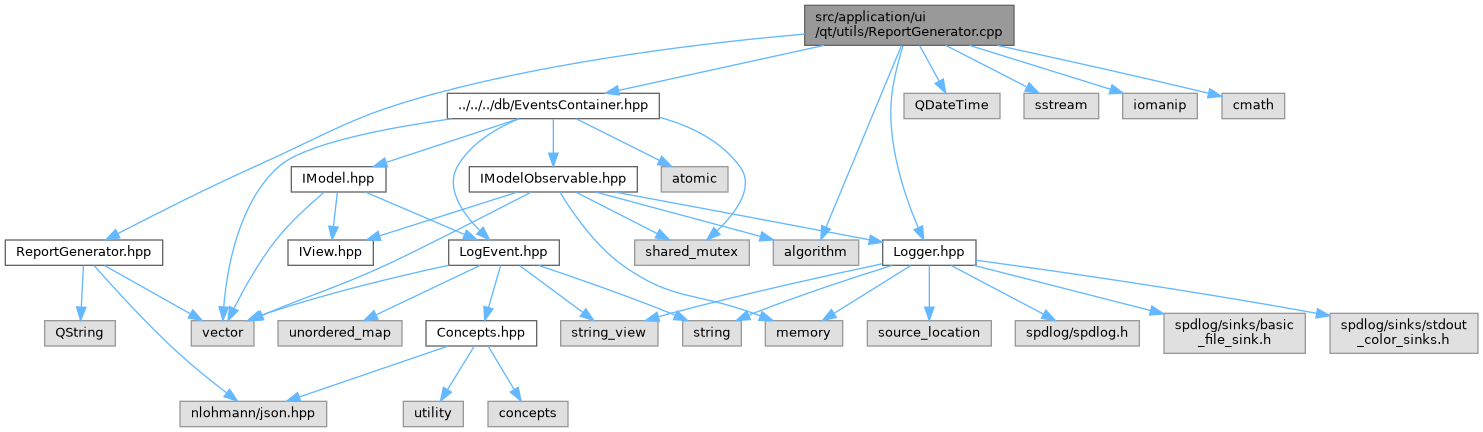
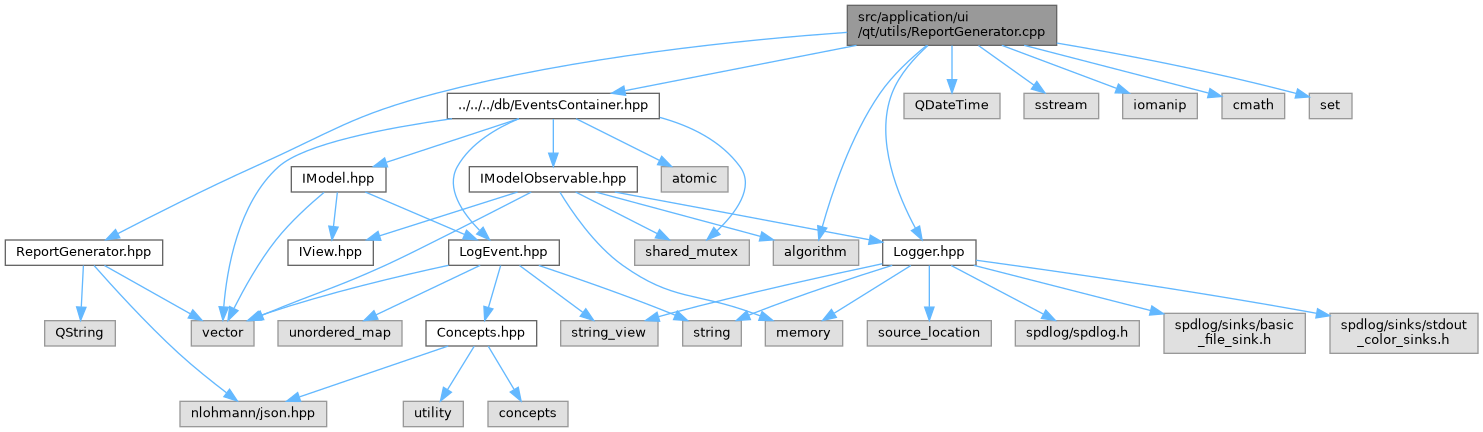
docs: update Doxygen for main 9cac99545302eed5df06e477e1df49b92910af70

diff --git a/d9/d8e/SearchEngine_8hpp_source.html b/d9/d8e/SearchEngine_8hpp_source.html
@@ -195,34 +195,34 @@ $(document).ready(function(){initNavTree('d9/d8e/SearchEngine_8hpp_source.html',
 <div class="ttc" id="aclassui_1_1qt_1_1utils_1_1SearchEngine_html"><div class="ttname"><a href="../../d6/da4/classui_1_1qt_1_1utils_1_1SearchEngine.html">ui::qt::utils::SearchEngine</a></div><div class="ttdoc">Advanced search engine supporting multiple search modes.</div><div class="ttdef"><b>Definition</b> SearchEngine.hpp:36</div></div>
 <div class="ttc" id="aclassui_1_1qt_1_1utils_1_1SearchEngine_html_a00ce6f7215e5659768e4cbb5f6100c2d"><div class="ttname"><a href="../../d6/da4/classui_1_1qt_1_1utils_1_1SearchEngine.html#a00ce6f7215e5659768e4cbb5f6100c2d">ui::qt::utils::SearchEngine::CompilePattern</a></div><div class="ttdeci">bool CompilePattern(const std::string &amp;pattern, std::string &amp;outError)</div><div class="ttdoc">Compile a search pattern (validates regex, parses advanced syntax)</div><div class="ttdef"><b>Definition</b> SearchEngine.cpp:17</div></div>
 <div class="ttc" id="aclassui_1_1qt_1_1utils_1_1SearchEngine_html_a0869fbab3a0b78e636c0de9ae2b8038a"><div class="ttname"><a href="../../d6/da4/classui_1_1qt_1_1utils_1_1SearchEngine.html#a0869fbab3a0b78e636c0de9ae2b8038a">ui::qt::utils::SearchEngine::SetCaseSensitive</a></div><div class="ttdeci">void SetCaseSensitive(bool sensitive)</div><div class="ttdoc">Set case sensitivity for substring/advanced modes.</div><div class="ttdef"><b>Definition</b> SearchEngine.hpp:45</div></div>
-<div class="ttc" id="aclassui_1_1qt_1_1utils_1_1SearchEngine_html_a0870ef0f32600b0c047cc75dfd22fc94"><div class="ttname"><a href="../../d6/da4/classui_1_1qt_1_1utils_1_1SearchEngine.html#a0870ef0f32600b0c047cc75dfd22fc94">ui::qt::utils::SearchEngine::Matches</a></div><div class="ttdeci">bool Matches(const std::string &amp;text) const</div><div class="ttdoc">Check if a string matches the current search pattern.</div><div class="ttdef"><b>Definition</b> SearchEngine.cpp:101</div></div>
-<div class="ttc" id="aclassui_1_1qt_1_1utils_1_1SearchEngine_html_a09b5ba499b6c1af2984b7825f60f1f48"><div class="ttname"><a href="../../d6/da4/classui_1_1qt_1_1utils_1_1SearchEngine.html#a09b5ba499b6c1af2984b7825f60f1f48">ui::qt::utils::SearchEngine::compileAdvanced</a></div><div class="ttdeci">bool compileAdvanced(const std::string &amp;pattern, std::string &amp;outError)</div><div class="ttdef"><b>Definition</b> SearchEngine.cpp:63</div></div>
-<div class="ttc" id="aclassui_1_1qt_1_1utils_1_1SearchEngine_html_a1066d6d1d810e00fd3b3cce923d3cf62"><div class="ttname"><a href="../../d6/da4/classui_1_1qt_1_1utils_1_1SearchEngine.html#a1066d6d1d810e00fd3b3cce923d3cf62">ui::qt::utils::SearchEngine::matchesRegex</a></div><div class="ttdeci">bool matchesRegex(const std::string &amp;text) const</div><div class="ttdef"><b>Definition</b> SearchEngine.cpp:156</div></div>
+<div class="ttc" id="aclassui_1_1qt_1_1utils_1_1SearchEngine_html_a0870ef0f32600b0c047cc75dfd22fc94"><div class="ttname"><a href="../../d6/da4/classui_1_1qt_1_1utils_1_1SearchEngine.html#a0870ef0f32600b0c047cc75dfd22fc94">ui::qt::utils::SearchEngine::Matches</a></div><div class="ttdeci">bool Matches(const std::string &amp;text) const</div><div class="ttdoc">Check if a string matches the current search pattern.</div><div class="ttdef"><b>Definition</b> SearchEngine.cpp:110</div></div>
+<div class="ttc" id="aclassui_1_1qt_1_1utils_1_1SearchEngine_html_a09b5ba499b6c1af2984b7825f60f1f48"><div class="ttname"><a href="../../d6/da4/classui_1_1qt_1_1utils_1_1SearchEngine.html#a09b5ba499b6c1af2984b7825f60f1f48">ui::qt::utils::SearchEngine::compileAdvanced</a></div><div class="ttdeci">bool compileAdvanced(const std::string &amp;pattern, std::string &amp;outError)</div><div class="ttdef"><b>Definition</b> SearchEngine.cpp:64</div></div>
+<div class="ttc" id="aclassui_1_1qt_1_1utils_1_1SearchEngine_html_a1066d6d1d810e00fd3b3cce923d3cf62"><div class="ttname"><a href="../../d6/da4/classui_1_1qt_1_1utils_1_1SearchEngine.html#a1066d6d1d810e00fd3b3cce923d3cf62">ui::qt::utils::SearchEngine::matchesRegex</a></div><div class="ttdeci">bool matchesRegex(const std::string &amp;text) const</div><div class="ttdef"><b>Definition</b> SearchEngine.cpp:165</div></div>
 <div class="ttc" id="aclassui_1_1qt_1_1utils_1_1SearchEngine_html_a14b34ead7e3f02a3e87db69861f451ea"><div class="ttname"><a href="../../d6/da4/classui_1_1qt_1_1utils_1_1SearchEngine.html#a14b34ead7e3f02a3e87db69861f451ea">ui::qt::utils::SearchEngine::m_pattern</a></div><div class="ttdeci">std::string m_pattern</div><div class="ttdef"><b>Definition</b> SearchEngine.hpp:94</div></div>
 <div class="ttc" id="aclassui_1_1qt_1_1utils_1_1SearchEngine_html_a157aefee98a697bb40137b06a67b274b"><div class="ttname"><a href="../../d6/da4/classui_1_1qt_1_1utils_1_1SearchEngine.html#a157aefee98a697bb40137b06a67b274b">ui::qt::utils::SearchEngine::m_compiledRegex</a></div><div class="ttdeci">std::optional&lt; std::regex &gt; m_compiledRegex</div><div class="ttdef"><b>Definition</b> SearchEngine.hpp:95</div></div>
 <div class="ttc" id="aclassui_1_1qt_1_1utils_1_1SearchEngine_html_a15d883daf62fb7ec866766b188287df9"><div class="ttname"><a href="../../d6/da4/classui_1_1qt_1_1utils_1_1SearchEngine.html#a15d883daf62fb7ec866766b188287df9">ui::qt::utils::SearchEngine::GetPattern</a></div><div class="ttdeci">const std::string &amp; GetPattern() const</div><div class="ttdoc">Get compiled pattern (for display/logging)</div><div class="ttdef"><b>Definition</b> SearchEngine.hpp:58</div></div>
 <div class="ttc" id="aclassui_1_1qt_1_1utils_1_1SearchEngine_html_a17b3fb58c58d2f37747f11d93ded34db"><div class="ttname"><a href="../../d6/da4/classui_1_1qt_1_1utils_1_1SearchEngine.html#a17b3fb58c58d2f37747f11d93ded34db">ui::qt::utils::SearchEngine::m_advancedQuery</a></div><div class="ttdeci">std::optional&lt; AdvancedQuery &gt; m_advancedQuery</div><div class="ttdef"><b>Definition</b> SearchEngine.hpp:96</div></div>
 <div class="ttc" id="aclassui_1_1qt_1_1utils_1_1SearchEngine_html_a1aa7a411f20acb1565b6ab46a9e68277"><div class="ttname"><a href="../../d6/da4/classui_1_1qt_1_1utils_1_1SearchEngine.html#a1aa7a411f20acb1565b6ab46a9e68277">ui::qt::utils::SearchEngine::kMaxHistorySize</a></div><div class="ttdeci">static constexpr size_t kMaxHistorySize</div><div class="ttdef"><b>Definition</b> SearchEngine.hpp:103</div></div>
 <div class="ttc" id="aclassui_1_1qt_1_1utils_1_1SearchEngine_html_a384fcf79fc4795a539371bcc85b45309"><div class="ttname"><a href="../../d6/da4/classui_1_1qt_1_1utils_1_1SearchEngine.html#a384fcf79fc4795a539371bcc85b45309">ui::qt::utils::SearchEngine::m_history</a></div><div class="ttdeci">std::vector&lt; std::string &gt; m_history</div><div class="ttdef"><b>Definition</b> SearchEngine.hpp:97</div></div>
-<div class="ttc" id="aclassui_1_1qt_1_1utils_1_1SearchEngine_html_a458f1a1b4a5b19335c2c9981ca7b774f"><div class="ttname"><a href="../../d6/da4/classui_1_1qt_1_1utils_1_1SearchEngine.html#a458f1a1b4a5b19335c2c9981ca7b774f">ui::qt::utils::SearchEngine::matchesSimple</a></div><div class="ttdeci">bool matchesSimple(const std::string &amp;text) const</div><div class="ttdef"><b>Definition</b> SearchEngine.cpp:121</div></div>
+<div class="ttc" id="aclassui_1_1qt_1_1utils_1_1SearchEngine_html_a458f1a1b4a5b19335c2c9981ca7b774f"><div class="ttname"><a href="../../d6/da4/classui_1_1qt_1_1utils_1_1SearchEngine.html#a458f1a1b4a5b19335c2c9981ca7b774f">ui::qt::utils::SearchEngine::matchesSimple</a></div><div class="ttdeci">bool matchesSimple(const std::string &amp;text) const</div><div class="ttdef"><b>Definition</b> SearchEngine.cpp:130</div></div>
 <div class="ttc" id="aclassui_1_1qt_1_1utils_1_1SearchEngine_html_a45b0fb6f489367fc7feff83eb57d272c"><div class="ttname"><a href="../../d6/da4/classui_1_1qt_1_1utils_1_1SearchEngine.html#a45b0fb6f489367fc7feff83eb57d272c">ui::qt::utils::SearchEngine::m_caseSensitive</a></div><div class="ttdeci">bool m_caseSensitive</div><div class="ttdef"><b>Definition</b> SearchEngine.hpp:93</div></div>
-<div class="ttc" id="aclassui_1_1qt_1_1utils_1_1SearchEngine_html_a508e71fb711d6105bc9f2440ff898dfd"><div class="ttname"><a href="../../d6/da4/classui_1_1qt_1_1utils_1_1SearchEngine.html#a508e71fb711d6105bc9f2440ff898dfd">ui::qt::utils::SearchEngine::findSimpleMatches</a></div><div class="ttdeci">std::vector&lt; SearchMatch &gt; findSimpleMatches(const std::string &amp;text) const</div><div class="ttdef"><b>Definition</b> SearchEngine.cpp:242</div></div>
-<div class="ttc" id="aclassui_1_1qt_1_1utils_1_1SearchEngine_html_a572c8bfcef6258dff6783a64f128f2a4"><div class="ttname"><a href="../../d6/da4/classui_1_1qt_1_1utils_1_1SearchEngine.html#a572c8bfcef6258dff6783a64f128f2a4">ui::qt::utils::SearchEngine::FindMatches</a></div><div class="ttdeci">std::vector&lt; SearchMatch &gt; FindMatches(const std::string &amp;text) const</div><div class="ttdoc">Find all matches in a string (for highlighting)</div><div class="ttdef"><b>Definition</b> SearchEngine.cpp:213</div></div>
-<div class="ttc" id="aclassui_1_1qt_1_1utils_1_1SearchEngine_html_a5b9bbdf14689cca274d67613e5707cfe"><div class="ttname"><a href="../../d6/da4/classui_1_1qt_1_1utils_1_1SearchEngine.html#a5b9bbdf14689cca274d67613e5707cfe">ui::qt::utils::SearchEngine::findRegexMatches</a></div><div class="ttdeci">std::vector&lt; SearchMatch &gt; findRegexMatches(const std::string &amp;text) const</div><div class="ttdef"><b>Definition</b> SearchEngine.cpp:286</div></div>
+<div class="ttc" id="aclassui_1_1qt_1_1utils_1_1SearchEngine_html_a508e71fb711d6105bc9f2440ff898dfd"><div class="ttname"><a href="../../d6/da4/classui_1_1qt_1_1utils_1_1SearchEngine.html#a508e71fb711d6105bc9f2440ff898dfd">ui::qt::utils::SearchEngine::findSimpleMatches</a></div><div class="ttdeci">std::vector&lt; SearchMatch &gt; findSimpleMatches(const std::string &amp;text) const</div><div class="ttdef"><b>Definition</b> SearchEngine.cpp:251</div></div>
+<div class="ttc" id="aclassui_1_1qt_1_1utils_1_1SearchEngine_html_a572c8bfcef6258dff6783a64f128f2a4"><div class="ttname"><a href="../../d6/da4/classui_1_1qt_1_1utils_1_1SearchEngine.html#a572c8bfcef6258dff6783a64f128f2a4">ui::qt::utils::SearchEngine::FindMatches</a></div><div class="ttdeci">std::vector&lt; SearchMatch &gt; FindMatches(const std::string &amp;text) const</div><div class="ttdoc">Find all matches in a string (for highlighting)</div><div class="ttdef"><b>Definition</b> SearchEngine.cpp:222</div></div>
+<div class="ttc" id="aclassui_1_1qt_1_1utils_1_1SearchEngine_html_a5b9bbdf14689cca274d67613e5707cfe"><div class="ttname"><a href="../../d6/da4/classui_1_1qt_1_1utils_1_1SearchEngine.html#a5b9bbdf14689cca274d67613e5707cfe">ui::qt::utils::SearchEngine::findRegexMatches</a></div><div class="ttdeci">std::vector&lt; SearchMatch &gt; findRegexMatches(const std::string &amp;text) const</div><div class="ttdef"><b>Definition</b> SearchEngine.cpp:295</div></div>
 <div class="ttc" id="aclassui_1_1qt_1_1utils_1_1SearchEngine_html_a656d11e9ec5aa28ce1419711fd1572d9"><div class="ttname"><a href="../../d6/da4/classui_1_1qt_1_1utils_1_1SearchEngine.html#a656d11e9ec5aa28ce1419711fd1572d9">ui::qt::utils::SearchEngine::SetMode</a></div><div class="ttdeci">void SetMode(SearchMode mode)</div><div class="ttdoc">Set search mode.</div><div class="ttdef"><b>Definition</b> SearchEngine.cpp:12</div></div>
 <div class="ttc" id="aclassui_1_1qt_1_1utils_1_1SearchEngine_html_a6d7bfb8c60db796f0869096ad95383b6"><div class="ttname"><a href="../../d6/da4/classui_1_1qt_1_1utils_1_1SearchEngine.html#a6d7bfb8c60db796f0869096ad95383b6">ui::qt::utils::SearchEngine::compileSimple</a></div><div class="ttdeci">bool compileSimple(const std::string &amp;pattern)</div><div class="ttdef"><b>Definition</b> SearchEngine.cpp:39</div></div>
 <div class="ttc" id="aclassui_1_1qt_1_1utils_1_1SearchEngine_html_a78a5fb2787fc7ae4ab7ca665d36fafba"><div class="ttname"><a href="../../d6/da4/classui_1_1qt_1_1utils_1_1SearchEngine.html#a78a5fb2787fc7ae4ab7ca665d36fafba">ui::qt::utils::SearchEngine::m_normalizedPattern</a></div><div class="ttdeci">std::string m_normalizedPattern</div><div class="ttdef"><b>Definition</b> SearchEngine.hpp:100</div></div>
-<div class="ttc" id="aclassui_1_1qt_1_1utils_1_1SearchEngine_html_a7b77834fdf3b01ff33a07243faedff96"><div class="ttname"><a href="../../d6/da4/classui_1_1qt_1_1utils_1_1SearchEngine.html#a7b77834fdf3b01ff33a07243faedff96">ui::qt::utils::SearchEngine::Clear</a></div><div class="ttdeci">void Clear()</div><div class="ttdoc">Clear current pattern.</div><div class="ttdef"><b>Definition</b> SearchEngine.cpp:311</div></div>
-<div class="ttc" id="aclassui_1_1qt_1_1utils_1_1SearchEngine_html_a8137417b74d0f5de61dd96c743ad722d"><div class="ttname"><a href="../../d6/da4/classui_1_1qt_1_1utils_1_1SearchEngine.html#a8137417b74d0f5de61dd96c743ad722d">ui::qt::utils::SearchEngine::AddToHistory</a></div><div class="ttdeci">void AddToHistory(const std::string &amp;term)</div><div class="ttdoc">Add to search history.</div><div class="ttdef"><b>Definition</b> SearchEngine.cpp:318</div></div>
-<div class="ttc" id="aclassui_1_1qt_1_1utils_1_1SearchEngine_html_aa015e67e960d9b4fbb7e47074626f6cd"><div class="ttname"><a href="../../d6/da4/classui_1_1qt_1_1utils_1_1SearchEngine.html#aa015e67e960d9b4fbb7e47074626f6cd">ui::qt::utils::SearchEngine::matchesAdvanced</a></div><div class="ttdeci">bool matchesAdvanced(const std::string &amp;text) const</div><div class="ttdef"><b>Definition</b> SearchEngine.cpp:169</div></div>
+<div class="ttc" id="aclassui_1_1qt_1_1utils_1_1SearchEngine_html_a7b77834fdf3b01ff33a07243faedff96"><div class="ttname"><a href="../../d6/da4/classui_1_1qt_1_1utils_1_1SearchEngine.html#a7b77834fdf3b01ff33a07243faedff96">ui::qt::utils::SearchEngine::Clear</a></div><div class="ttdeci">void Clear()</div><div class="ttdoc">Clear current pattern.</div><div class="ttdef"><b>Definition</b> SearchEngine.cpp:320</div></div>
+<div class="ttc" id="aclassui_1_1qt_1_1utils_1_1SearchEngine_html_a8137417b74d0f5de61dd96c743ad722d"><div class="ttname"><a href="../../d6/da4/classui_1_1qt_1_1utils_1_1SearchEngine.html#a8137417b74d0f5de61dd96c743ad722d">ui::qt::utils::SearchEngine::AddToHistory</a></div><div class="ttdeci">void AddToHistory(const std::string &amp;term)</div><div class="ttdoc">Add to search history.</div><div class="ttdef"><b>Definition</b> SearchEngine.cpp:327</div></div>
+<div class="ttc" id="aclassui_1_1qt_1_1utils_1_1SearchEngine_html_aa015e67e960d9b4fbb7e47074626f6cd"><div class="ttname"><a href="../../d6/da4/classui_1_1qt_1_1utils_1_1SearchEngine.html#aa015e67e960d9b4fbb7e47074626f6cd">ui::qt::utils::SearchEngine::matchesAdvanced</a></div><div class="ttdeci">bool matchesAdvanced(const std::string &amp;text) const</div><div class="ttdef"><b>Definition</b> SearchEngine.cpp:178</div></div>
 <div class="ttc" id="aclassui_1_1qt_1_1utils_1_1SearchEngine_html_aa8cef7de68a51551c2f566689951b5a8"><div class="ttname"><a href="../../d6/da4/classui_1_1qt_1_1utils_1_1SearchEngine.html#aa8cef7de68a51551c2f566689951b5a8">ui::qt::utils::SearchEngine::GetMode</a></div><div class="ttdeci">SearchMode GetMode() const</div><div class="ttdef"><b>Definition</b> SearchEngine.hpp:42</div></div>
 <div class="ttc" id="aclassui_1_1qt_1_1utils_1_1SearchEngine_html_aae30527f69978d84c8fae44d12674ffa"><div class="ttname"><a href="../../d6/da4/classui_1_1qt_1_1utils_1_1SearchEngine.html#aae30527f69978d84c8fae44d12674ffa">ui::qt::utils::SearchEngine::IsCaseSensitive</a></div><div class="ttdeci">bool IsCaseSensitive() const</div><div class="ttdef"><b>Definition</b> SearchEngine.hpp:46</div></div>
-<div class="ttc" id="aclassui_1_1qt_1_1utils_1_1SearchEngine_html_ab4b3455306456e9b1e5b7622fe255d12"><div class="ttname"><a href="../../d6/da4/classui_1_1qt_1_1utils_1_1SearchEngine.html#ab4b3455306456e9b1e5b7622fe255d12">ui::qt::utils::SearchEngine::GetSuggestions</a></div><div class="ttdeci">std::vector&lt; std::string &gt; GetSuggestions(const std::string &amp;prefix) const</div><div class="ttdoc">Get suggestions based on current input (for autocomplete)</div><div class="ttdef"><b>Definition</b> SearchEngine.cpp:338</div></div>
+<div class="ttc" id="aclassui_1_1qt_1_1utils_1_1SearchEngine_html_ab4b3455306456e9b1e5b7622fe255d12"><div class="ttname"><a href="../../d6/da4/classui_1_1qt_1_1utils_1_1SearchEngine.html#ab4b3455306456e9b1e5b7622fe255d12">ui::qt::utils::SearchEngine::GetSuggestions</a></div><div class="ttdeci">std::vector&lt; std::string &gt; GetSuggestions(const std::string &amp;prefix) const</div><div class="ttdoc">Get suggestions based on current input (for autocomplete)</div><div class="ttdef"><b>Definition</b> SearchEngine.cpp:347</div></div>
 <div class="ttc" id="aclassui_1_1qt_1_1utils_1_1SearchEngine_html_ab68a085c7cf2e4cf9437adc3e3941df6"><div class="ttname"><a href="../../d6/da4/classui_1_1qt_1_1utils_1_1SearchEngine.html#ab68a085c7cf2e4cf9437adc3e3941df6">ui::qt::utils::SearchEngine::GetHistory</a></div><div class="ttdeci">const std::vector&lt; std::string &gt; &amp; GetHistory() const</div><div class="ttdoc">Get search history (most recent first)</div><div class="ttdef"><b>Definition</b> SearchEngine.hpp:67</div></div>
 <div class="ttc" id="aclassui_1_1qt_1_1utils_1_1SearchEngine_html_ac0f02f9058b69388aadf563a23d4507f"><div class="ttname"><a href="../../d6/da4/classui_1_1qt_1_1utils_1_1SearchEngine.html#ac0f02f9058b69388aadf563a23d4507f">ui::qt::utils::SearchEngine::SearchEngine</a></div><div class="ttdeci">SearchEngine()</div></div>
 <div class="ttc" id="aclassui_1_1qt_1_1utils_1_1SearchEngine_html_ad83abc97a5a59a3f9e5f10fcb5fed9d2"><div class="ttname"><a href="../../d6/da4/classui_1_1qt_1_1utils_1_1SearchEngine.html#ad83abc97a5a59a3f9e5f10fcb5fed9d2">ui::qt::utils::SearchEngine::m_normalizedPatternValid</a></div><div class="ttdeci">bool m_normalizedPatternValid</div><div class="ttdef"><b>Definition</b> SearchEngine.hpp:101</div></div>
 <div class="ttc" id="aclassui_1_1qt_1_1utils_1_1SearchEngine_html_af37d35dd047b95e5890338702a546274"><div class="ttname"><a href="../../d6/da4/classui_1_1qt_1_1utils_1_1SearchEngine.html#af37d35dd047b95e5890338702a546274">ui::qt::utils::SearchEngine::m_mode</a></div><div class="ttdeci">SearchMode m_mode</div><div class="ttdef"><b>Definition</b> SearchEngine.hpp:92</div></div>
-<div class="ttc" id="aclassui_1_1qt_1_1utils_1_1SearchEngine_html_af8560adfcb56430793e19f00d7cb393b"><div class="ttname"><a href="../../d6/da4/classui_1_1qt_1_1utils_1_1SearchEngine.html#af8560adfcb56430793e19f00d7cb393b">ui::qt::utils::SearchEngine::compileRegex</a></div><div class="ttdeci">bool compileRegex(const std::string &amp;pattern, std::string &amp;outError)</div><div class="ttdef"><b>Definition</b> SearchEngine.cpp:46</div></div>
+<div class="ttc" id="aclassui_1_1qt_1_1utils_1_1SearchEngine_html_af8560adfcb56430793e19f00d7cb393b"><div class="ttname"><a href="../../d6/da4/classui_1_1qt_1_1utils_1_1SearchEngine.html#af8560adfcb56430793e19f00d7cb393b">ui::qt::utils::SearchEngine::compileRegex</a></div><div class="ttdeci">bool compileRegex(const std::string &amp;pattern, std::string &amp;outError)</div><div class="ttdef"><b>Definition</b> SearchEngine.cpp:47</div></div>
 <div class="ttc" id="aclassui_1_1qt_1_1utils_1_1SearchEngine_html_affd58dbafcc0a3a8f8ad388957bb979b"><div class="ttname"><a href="../../d6/da4/classui_1_1qt_1_1utils_1_1SearchEngine.html#affd58dbafcc0a3a8f8ad388957bb979b">ui::qt::utils::SearchEngine::ClearHistory</a></div><div class="ttdeci">void ClearHistory()</div><div class="ttdoc">Clear history.</div><div class="ttdef"><b>Definition</b> SearchEngine.hpp:70</div></div>
 <div class="ttc" id="anamespaceui_1_1qt_1_1utils_html"><div class="ttname"><a href="../../dd/d73/namespaceui_1_1qt_1_1utils.html">ui::qt::utils</a></div><div class="ttdef"><b>Definition</b> EventGroupManager.cpp:12</div></div>
 <div class="ttc" id="anamespaceui_1_1qt_1_1utils_html_ae384296ecf488dc3d5f196f33ce8875c"><div class="ttname"><a href="../../dd/d73/namespaceui_1_1qt_1_1utils.html#ae384296ecf488dc3d5f196f33ce8875c">ui::qt::utils::SearchMode</a></div><div class="ttdeci">SearchMode</div><div class="ttdef"><b>Definition</b> SearchEngine.hpp:19</div></div>

diff --git a/db/d36/ReportGenerator_8hpp_source.html b/db/d36/ReportGenerator_8hpp_source.html
@@ -183,25 +183,25 @@ $(document).ready(function(){initNavTree('db/d36/ReportGenerator_8hpp_source.htm
 <div class="line"><a id="l00091" name="l00091"></a><span class="lineno">   91</span>} <span class="comment">// namespace ui::qt::utils</span></div>
 <div class="ttc" id="aclassdb_1_1EventsContainer_html"><div class="ttname"><a href="../../dd/dc2/classdb_1_1EventsContainer.html">db::EventsContainer</a></div><div class="ttdoc">High-performance, thread-safe container for managing large collections of LogEvent objects.</div><div class="ttdef"><b>Definition</b> EventsContainer.hpp:125</div></div>
 <div class="ttc" id="aclassui_1_1qt_1_1utils_1_1ReportGenerator_html"><div class="ttname"><a href="../../d3/dbb/classui_1_1qt_1_1utils_1_1ReportGenerator.html">ui::qt::utils::ReportGenerator</a></div><div class="ttdoc">Report generation system for v1.10.0 Phase 11.</div><div class="ttdef"><b>Definition</b> ReportGenerator.hpp:28</div></div>
-<div class="ttc" id="aclassui_1_1qt_1_1utils_1_1ReportGenerator_html_a01e6c17852b31a3806bd2dfb139919da"><div class="ttname"><a href="../../d3/dbb/classui_1_1qt_1_1utils_1_1ReportGenerator.html#a01e6c17852b31a3806bd2dfb139919da">ui::qt::utils::ReportGenerator::generateReport</a></div><div class="ttdeci">QString generateReport(const std::vector&lt; int &gt; &amp;eventIndices, const ReportOptions &amp;options)</div><div class="ttdoc">Generate a report from events in the container.</div><div class="ttdef"><b>Definition</b> ReportGenerator.cpp:19</div></div>
-<div class="ttc" id="aclassui_1_1qt_1_1utils_1_1ReportGenerator_html_a14990fa7535f037eaa75187a3fa1622f"><div class="ttname"><a href="../../d3/dbb/classui_1_1qt_1_1utils_1_1ReportGenerator.html#a14990fa7535f037eaa75187a3fa1622f">ui::qt::utils::ReportGenerator::GenerateMarkdown</a></div><div class="ttdeci">QString GenerateMarkdown(const std::vector&lt; const db::LogEvent * &gt; &amp;events, const ReportOptions &amp;options)</div><div class="ttdef"><b>Definition</b> ReportGenerator.cpp:159</div></div>
+<div class="ttc" id="aclassui_1_1qt_1_1utils_1_1ReportGenerator_html_a01e6c17852b31a3806bd2dfb139919da"><div class="ttname"><a href="../../d3/dbb/classui_1_1qt_1_1utils_1_1ReportGenerator.html#a01e6c17852b31a3806bd2dfb139919da">ui::qt::utils::ReportGenerator::generateReport</a></div><div class="ttdeci">QString generateReport(const std::vector&lt; int &gt; &amp;eventIndices, const ReportOptions &amp;options)</div><div class="ttdoc">Generate a report from events in the container.</div><div class="ttdef"><b>Definition</b> ReportGenerator.cpp:20</div></div>
+<div class="ttc" id="aclassui_1_1qt_1_1utils_1_1ReportGenerator_html_a14990fa7535f037eaa75187a3fa1622f"><div class="ttname"><a href="../../d3/dbb/classui_1_1qt_1_1utils_1_1ReportGenerator.html#a14990fa7535f037eaa75187a3fa1622f">ui::qt::utils::ReportGenerator::GenerateMarkdown</a></div><div class="ttdeci">QString GenerateMarkdown(const std::vector&lt; const db::LogEvent * &gt; &amp;events, const ReportOptions &amp;options)</div><div class="ttdef"><b>Definition</b> ReportGenerator.cpp:160</div></div>
 <div class="ttc" id="aclassui_1_1qt_1_1utils_1_1ReportGenerator_html_a20cf7d27a83e2c2e43b2e1d10d30a68a"><div class="ttname"><a href="../../d3/dbb/classui_1_1qt_1_1utils_1_1ReportGenerator.html#a20cf7d27a83e2c2e43b2e1d10d30a68a">ui::qt::utils::ReportGenerator::m_events</a></div><div class="ttdeci">db::EventsContainer &amp; m_events</div><div class="ttdef"><b>Definition</b> ReportGenerator.hpp:88</div></div>
-<div class="ttc" id="aclassui_1_1qt_1_1utils_1_1ReportGenerator_html_a2a2d6eef75f4fc80bacd74f575f978bd"><div class="ttname"><a href="../../d3/dbb/classui_1_1qt_1_1utils_1_1ReportGenerator.html#a2a2d6eef75f4fc80bacd74f575f978bd">ui::qt::utils::ReportGenerator::GenerateJSON</a></div><div class="ttdeci">QString GenerateJSON(const std::vector&lt; const db::LogEvent * &gt; &amp;events, const ReportOptions &amp;options)</div><div class="ttdef"><b>Definition</b> ReportGenerator.cpp:214</div></div>
-<div class="ttc" id="aclassui_1_1qt_1_1utils_1_1ReportGenerator_html_a4d2e13e509089aae2e05729d1c17b57e"><div class="ttname"><a href="../../d3/dbb/classui_1_1qt_1_1utils_1_1ReportGenerator.html#a4d2e13e509089aae2e05729d1c17b57e">ui::qt::utils::ReportGenerator::GenerateStatisticsTable</a></div><div class="ttdeci">QString GenerateStatisticsTable(const ReportStatistics &amp;stats)</div><div class="ttdef"><b>Definition</b> ReportGenerator.cpp:335</div></div>
-<div class="ttc" id="aclassui_1_1qt_1_1utils_1_1ReportGenerator_html_a682712a63e6919ffa1e5fd061d59b5f6"><div class="ttname"><a href="../../d3/dbb/classui_1_1qt_1_1utils_1_1ReportGenerator.html#a682712a63e6919ffa1e5fd061d59b5f6">ui::qt::utils::ReportGenerator::GenerateHTML</a></div><div class="ttdeci">QString GenerateHTML(const std::vector&lt; const db::LogEvent * &gt; &amp;events, const ReportOptions &amp;options)</div><div class="ttdef"><b>Definition</b> ReportGenerator.cpp:69</div></div>
-<div class="ttc" id="aclassui_1_1qt_1_1utils_1_1ReportGenerator_html_a963e71b3e67e203af66536c18dc68491"><div class="ttname"><a href="../../d3/dbb/classui_1_1qt_1_1utils_1_1ReportGenerator.html#a963e71b3e67e203af66536c18dc68491">ui::qt::utils::ReportGenerator::GenerateTimeline</a></div><div class="ttdeci">QString GenerateTimeline(const std::vector&lt; const db::LogEvent * &gt; &amp;events)</div><div class="ttdef"><b>Definition</b> ReportGenerator.cpp:348</div></div>
+<div class="ttc" id="aclassui_1_1qt_1_1utils_1_1ReportGenerator_html_a2a2d6eef75f4fc80bacd74f575f978bd"><div class="ttname"><a href="../../d3/dbb/classui_1_1qt_1_1utils_1_1ReportGenerator.html#a2a2d6eef75f4fc80bacd74f575f978bd">ui::qt::utils::ReportGenerator::GenerateJSON</a></div><div class="ttdeci">QString GenerateJSON(const std::vector&lt; const db::LogEvent * &gt; &amp;events, const ReportOptions &amp;options)</div><div class="ttdef"><b>Definition</b> ReportGenerator.cpp:215</div></div>
+<div class="ttc" id="aclassui_1_1qt_1_1utils_1_1ReportGenerator_html_a4d2e13e509089aae2e05729d1c17b57e"><div class="ttname"><a href="../../d3/dbb/classui_1_1qt_1_1utils_1_1ReportGenerator.html#a4d2e13e509089aae2e05729d1c17b57e">ui::qt::utils::ReportGenerator::GenerateStatisticsTable</a></div><div class="ttdeci">QString GenerateStatisticsTable(const ReportStatistics &amp;stats)</div><div class="ttdef"><b>Definition</b> ReportGenerator.cpp:336</div></div>
+<div class="ttc" id="aclassui_1_1qt_1_1utils_1_1ReportGenerator_html_a682712a63e6919ffa1e5fd061d59b5f6"><div class="ttname"><a href="../../d3/dbb/classui_1_1qt_1_1utils_1_1ReportGenerator.html#a682712a63e6919ffa1e5fd061d59b5f6">ui::qt::utils::ReportGenerator::GenerateHTML</a></div><div class="ttdeci">QString GenerateHTML(const std::vector&lt; const db::LogEvent * &gt; &amp;events, const ReportOptions &amp;options)</div><div class="ttdef"><b>Definition</b> ReportGenerator.cpp:70</div></div>
+<div class="ttc" id="aclassui_1_1qt_1_1utils_1_1ReportGenerator_html_a963e71b3e67e203af66536c18dc68491"><div class="ttname"><a href="../../d3/dbb/classui_1_1qt_1_1utils_1_1ReportGenerator.html#a963e71b3e67e203af66536c18dc68491">ui::qt::utils::ReportGenerator::GenerateTimeline</a></div><div class="ttdeci">QString GenerateTimeline(const std::vector&lt; const db::LogEvent * &gt; &amp;events)</div><div class="ttdef"><b>Definition</b> ReportGenerator.cpp:349</div></div>
 <div class="ttc" id="aclassui_1_1qt_1_1utils_1_1ReportGenerator_html_aafd28a6c28d6aab2a774fd66bb02f2f4"><div class="ttname"><a href="../../d3/dbb/classui_1_1qt_1_1utils_1_1ReportGenerator.html#aafd28a6c28d6aab2a774fd66bb02f2f4">ui::qt::utils::ReportGenerator::ReportFormat</a></div><div class="ttdeci">ReportFormat</div><div class="ttdef"><b>Definition</b> ReportGenerator.hpp:31</div></div>
 <div class="ttc" id="aclassui_1_1qt_1_1utils_1_1ReportGenerator_html_aafd28a6c28d6aab2a774fd66bb02f2f4a0ecd11c1d7a287401d148a23bbd7a2f8"><div class="ttname"><a href="../../d3/dbb/classui_1_1qt_1_1utils_1_1ReportGenerator.html#aafd28a6c28d6aab2a774fd66bb02f2f4a0ecd11c1d7a287401d148a23bbd7a2f8">ui::qt::utils::ReportGenerator::ReportFormat::JSON</a></div><div class="ttdeci">@ JSON</div></div>
 <div class="ttc" id="aclassui_1_1qt_1_1utils_1_1ReportGenerator_html_aafd28a6c28d6aab2a774fd66bb02f2f4a2182a74bab7188d959e795d9301e87ff"><div class="ttname"><a href="../../d3/dbb/classui_1_1qt_1_1utils_1_1ReportGenerator.html#aafd28a6c28d6aab2a774fd66bb02f2f4a2182a74bab7188d959e795d9301e87ff">ui::qt::utils::ReportGenerator::ReportFormat::Markdown</a></div><div class="ttdeci">@ Markdown</div></div>
 <div class="ttc" id="aclassui_1_1qt_1_1utils_1_1ReportGenerator_html_aafd28a6c28d6aab2a774fd66bb02f2f4a4c4ad5fca2e7a3f74dbb1ced00381aa4"><div class="ttname"><a href="../../d3/dbb/classui_1_1qt_1_1utils_1_1ReportGenerator.html#aafd28a6c28d6aab2a774fd66bb02f2f4a4c4ad5fca2e7a3f74dbb1ced00381aa4">ui::qt::utils::ReportGenerator::ReportFormat::HTML</a></div><div class="ttdeci">@ HTML</div></div>
 <div class="ttc" id="aclassui_1_1qt_1_1utils_1_1ReportGenerator_html_aafd28a6c28d6aab2a774fd66bb02f2f4ab7ebbf7f254ef646928dd58f62383a85"><div class="ttname"><a href="../../d3/dbb/classui_1_1qt_1_1utils_1_1ReportGenerator.html#aafd28a6c28d6aab2a774fd66bb02f2f4ab7ebbf7f254ef646928dd58f62383a85">ui::qt::utils::ReportGenerator::ReportFormat::PlainText</a></div><div class="ttdeci">@ PlainText</div></div>
 <div class="ttc" id="aclassui_1_1qt_1_1utils_1_1ReportGenerator_html_aafd28a6c28d6aab2a774fd66bb02f2f4abcd1b68617759b1dfcff0403a6b5a8d1"><div class="ttname"><a href="../../d3/dbb/classui_1_1qt_1_1utils_1_1ReportGenerator.html#aafd28a6c28d6aab2a774fd66bb02f2f4abcd1b68617759b1dfcff0403a6b5a8d1">ui::qt::utils::ReportGenerator::ReportFormat::PDF</a></div><div class="ttdeci">@ PDF</div></div>
-<div class="ttc" id="aclassui_1_1qt_1_1utils_1_1ReportGenerator_html_ac2772d9743246fbf067599524710b752"><div class="ttname"><a href="../../d3/dbb/classui_1_1qt_1_1utils_1_1ReportGenerator.html#ac2772d9743246fbf067599524710b752">ui::qt::utils::ReportGenerator::GenerateTrendAnalysis</a></div><div class="ttdeci">QString GenerateTrendAnalysis(const std::vector&lt; const db::LogEvent * &gt; &amp;events)</div><div class="ttdef"><b>Definition</b> ReportGenerator.cpp:354</div></div>
-<div class="ttc" id="aclassui_1_1qt_1_1utils_1_1ReportGenerator_html_ada82d479bb313bbce4bbe902532ba527"><div class="ttname"><a href="../../d3/dbb/classui_1_1qt_1_1utils_1_1ReportGenerator.html#ada82d479bb313bbce4bbe902532ba527">ui::qt::utils::ReportGenerator::generateReportFiltered</a></div><div class="ttdeci">QString generateReportFiltered(const QString &amp;filterCriteria, const ReportOptions &amp;options)</div><div class="ttdoc">Generate from filtered events (by level, pattern, etc.)</div><div class="ttdef"><b>Definition</b> ReportGenerator.cpp:59</div></div>
-<div class="ttc" id="aclassui_1_1qt_1_1utils_1_1ReportGenerator_html_adaaf8d0e30fc8e5afae99197f92b4d4f"><div class="ttname"><a href="../../d3/dbb/classui_1_1qt_1_1utils_1_1ReportGenerator.html#adaaf8d0e30fc8e5afae99197f92b4d4f">ui::qt::utils::ReportGenerator::CalculateStatistics</a></div><div class="ttdeci">ReportStatistics CalculateStatistics(const std::vector&lt; const db::LogEvent * &gt; &amp;events)</div><div class="ttdef"><b>Definition</b> ReportGenerator.cpp:265</div></div>
-<div class="ttc" id="aclassui_1_1qt_1_1utils_1_1ReportGenerator_html_adcf02ae0f0b096b80b28aca0a89a5ee8"><div class="ttname"><a href="../../d3/dbb/classui_1_1qt_1_1utils_1_1ReportGenerator.html#adcf02ae0f0b096b80b28aca0a89a5ee8">ui::qt::utils::ReportGenerator::GeneratePlainText</a></div><div class="ttdeci">QString GeneratePlainText(const std::vector&lt; const db::LogEvent * &gt; &amp;events, const ReportOptions &amp;options)</div><div class="ttdef"><b>Definition</b> ReportGenerator.cpp:247</div></div>
-<div class="ttc" id="aclassui_1_1qt_1_1utils_1_1ReportGenerator_html_ae9858115628c6c8c43046cf4447b1433"><div class="ttname"><a href="../../d3/dbb/classui_1_1qt_1_1utils_1_1ReportGenerator.html#ae9858115628c6c8c43046cf4447b1433">ui::qt::utils::ReportGenerator::GenerateSummary</a></div><div class="ttdeci">QString GenerateSummary(const ReportStatistics &amp;stats)</div><div class="ttdef"><b>Definition</b> ReportGenerator.cpp:320</div></div>
-<div class="ttc" id="aclassui_1_1qt_1_1utils_1_1ReportGenerator_html_aee8e310f64d8df5e178b3cc6a91f0982"><div class="ttname"><a href="../../d3/dbb/classui_1_1qt_1_1utils_1_1ReportGenerator.html#aee8e310f64d8df5e178b3cc6a91f0982">ui::qt::utils::ReportGenerator::generateReportByTimeRange</a></div><div class="ttdeci">QString generateReportByTimeRange(int64_t startTime, int64_t endTime, const ReportOptions &amp;options)</div><div class="ttdoc">Generate from time range.</div><div class="ttdef"><b>Definition</b> ReportGenerator.cpp:48</div></div>
+<div class="ttc" id="aclassui_1_1qt_1_1utils_1_1ReportGenerator_html_ac2772d9743246fbf067599524710b752"><div class="ttname"><a href="../../d3/dbb/classui_1_1qt_1_1utils_1_1ReportGenerator.html#ac2772d9743246fbf067599524710b752">ui::qt::utils::ReportGenerator::GenerateTrendAnalysis</a></div><div class="ttdeci">QString GenerateTrendAnalysis(const std::vector&lt; const db::LogEvent * &gt; &amp;events)</div><div class="ttdef"><b>Definition</b> ReportGenerator.cpp:355</div></div>
+<div class="ttc" id="aclassui_1_1qt_1_1utils_1_1ReportGenerator_html_ada82d479bb313bbce4bbe902532ba527"><div class="ttname"><a href="../../d3/dbb/classui_1_1qt_1_1utils_1_1ReportGenerator.html#ada82d479bb313bbce4bbe902532ba527">ui::qt::utils::ReportGenerator::generateReportFiltered</a></div><div class="ttdeci">QString generateReportFiltered(const QString &amp;filterCriteria, const ReportOptions &amp;options)</div><div class="ttdoc">Generate from filtered events (by level, pattern, etc.)</div><div class="ttdef"><b>Definition</b> ReportGenerator.cpp:60</div></div>
+<div class="ttc" id="aclassui_1_1qt_1_1utils_1_1ReportGenerator_html_adaaf8d0e30fc8e5afae99197f92b4d4f"><div class="ttname"><a href="../../d3/dbb/classui_1_1qt_1_1utils_1_1ReportGenerator.html#adaaf8d0e30fc8e5afae99197f92b4d4f">ui::qt::utils::ReportGenerator::CalculateStatistics</a></div><div class="ttdeci">ReportStatistics CalculateStatistics(const std::vector&lt; const db::LogEvent * &gt; &amp;events)</div><div class="ttdef"><b>Definition</b> ReportGenerator.cpp:266</div></div>
+<div class="ttc" id="aclassui_1_1qt_1_1utils_1_1ReportGenerator_html_adcf02ae0f0b096b80b28aca0a89a5ee8"><div class="ttname"><a href="../../d3/dbb/classui_1_1qt_1_1utils_1_1ReportGenerator.html#adcf02ae0f0b096b80b28aca0a89a5ee8">ui::qt::utils::ReportGenerator::GeneratePlainText</a></div><div class="ttdeci">QString GeneratePlainText(const std::vector&lt; const db::LogEvent * &gt; &amp;events, const ReportOptions &amp;options)</div><div class="ttdef"><b>Definition</b> ReportGenerator.cpp:248</div></div>
+<div class="ttc" id="aclassui_1_1qt_1_1utils_1_1ReportGenerator_html_ae9858115628c6c8c43046cf4447b1433"><div class="ttname"><a href="../../d3/dbb/classui_1_1qt_1_1utils_1_1ReportGenerator.html#ae9858115628c6c8c43046cf4447b1433">ui::qt::utils::ReportGenerator::GenerateSummary</a></div><div class="ttdeci">QString GenerateSummary(const ReportStatistics &amp;stats)</div><div class="ttdef"><b>Definition</b> ReportGenerator.cpp:321</div></div>
+<div class="ttc" id="aclassui_1_1qt_1_1utils_1_1ReportGenerator_html_aee8e310f64d8df5e178b3cc6a91f0982"><div class="ttname"><a href="../../d3/dbb/classui_1_1qt_1_1utils_1_1ReportGenerator.html#aee8e310f64d8df5e178b3cc6a91f0982">ui::qt::utils::ReportGenerator::generateReportByTimeRange</a></div><div class="ttdeci">QString generateReportByTimeRange(int64_t startTime, int64_t endTime, const ReportOptions &amp;options)</div><div class="ttdoc">Generate from time range.</div><div class="ttdef"><b>Definition</b> ReportGenerator.cpp:49</div></div>
 <div class="ttc" id="anamespacedb_html"><div class="ttname"><a href="../../d0/d45/namespacedb.html">db</a></div><div class="ttdoc">Database and data model components for the LogViewer application.</div><div class="ttdef"><b>Definition</b> EventsContainer.cpp:16</div></div>
 <div class="ttc" id="anamespaceui_1_1qt_1_1utils_html"><div class="ttname"><a href="../../dd/d73/namespaceui_1_1qt_1_1utils.html">ui::qt::utils</a></div><div class="ttdef"><b>Definition</b> EventGroupManager.cpp:12</div></div>
 <div class="ttc" id="astructui_1_1qt_1_1utils_1_1ReportGenerator_1_1ReportOptions_html"><div class="ttname"><a href="../../d6/dba/structui_1_1qt_1_1utils_1_1ReportGenerator_1_1ReportOptions.html">ui::qt::utils::ReportGenerator::ReportOptions</a></div><div class="ttdef"><b>Definition</b> ReportGenerator.hpp:40</div></div>

diff --git a/d1/d01/ReportGenerator_8cpp.html b/d1/d01/ReportGenerator_8cpp.html
@@ -103,28 +103,31 @@ $(document).ready(function(){initNavTree('d1/d01/ReportGenerator_8cpp.html','../
 <code>#include &lt;sstream&gt;</code><br />
 <code>#include &lt;iomanip&gt;</code><br />
 <code>#include &lt;cmath&gt;</code><br />
+<code>#include &lt;set&gt;</code><br />
 </div><div class="textblock"><div class="dynheader">
 Include dependency graph for ReportGenerator.cpp:</div>
 <div class="dyncontent">
 <div class="center"><img src="../../de/d87/ReportGenerator_8cpp__incl.png" border="0" usemap="#asrc_2application_2ui_2qt_2utils_2ReportGenerator_8cpp" alt=""/></div>
 <map name="asrc_2application_2ui_2qt_2utils_2ReportGenerator_8cpp" id="asrc_2application_2ui_2qt_2utils_2ReportGenerator_8cpp">
-<area shape="rect" title=" " alt="" coords="805,5,1014,45"/>
+<area shape="rect" title=" " alt="" coords="847,5,1057,45"/>
 <area shape="rect" href="../../db/d36/ReportGenerator_8hpp.html" title=" " alt="" coords="5,240,163,265"/>
-<area shape="poly" title=" " alt="" coords="805,37,631,57,533,74,437,96,384,112,345,128,256,169,119,236,117,231,254,164,343,123,383,107,435,91,532,69,630,52,804,31"/>
+<area shape="poly" title=" " alt="" coords="847,35,655,55,545,72,437,96,384,112,345,127,256,169,119,236,117,231,254,164,342,122,382,107,435,91,544,67,654,49,847,30"/>
 <area shape="rect" href="../../d9/d11/Logger_8hpp.html" title="Logging facade for application&#45;wide logging." alt="" coords="883,240,976,265"/>
-<area shape="poly" title=" " alt="" coords="906,46,895,94,894,130,900,167,921,227,916,229,895,168,889,131,889,93,900,45"/>
+<area shape="poly" title=" " alt="" coords="930,47,910,68,895,94,888,130,893,166,905,199,918,227,913,229,900,201,888,167,883,129,889,92,906,65,926,44"/>
 <area shape="rect" href="../../df/d0f/EventsContainer_8hpp.html" title="Container class for managing collections of LogEvent objects." alt="" coords="447,93,659,119"/>
-<area shape="poly" title=" " alt="" coords="825,48,619,93,618,88,823,43"/>
+<area shape="poly" title=" " alt="" coords="857,48,625,93,624,88,856,43"/>
 <area shape="rect" title=" " alt="" coords="773,240,859,265"/>
-<area shape="poly" title=" " alt="" coords="904,46,829,228,824,226,899,44"/>
+<area shape="poly" title=" " alt="" coords="928,47,904,69,882,95,862,129,846,165,825,228,820,226,841,163,857,126,878,92,901,65,925,43"/>
 <area shape="rect" title=" " alt="" coords="904,93,1000,119"/>
-<area shape="poly" title=" " alt="" coords="922,44,942,80,937,83,917,47"/>
+<area shape="poly" title=" " alt="" coords="955,46,955,79,949,79,949,46"/>
 <area shape="rect" title=" " alt="" coords="1024,93,1099,119"/>
-<area shape="poly" title=" " alt="" coords="947,43,1028,84,1025,89,945,48"/>
+<area shape="poly" title=" " alt="" coords="980,43,1036,83,1033,87,977,48"/>
 <area shape="rect" title=" " alt="" coords="1123,93,1197,119"/>
-<area shape="poly" title=" " alt="" coords="970,43,1111,87,1110,92,969,48"/>
+<area shape="poly" title=" " alt="" coords="1003,43,1118,86,1116,91,1001,48"/>
 <area shape="rect" title=" " alt="" coords="1222,93,1285,119"/>
-<area shape="poly" title=" " alt="" coords="998,43,1209,91,1208,96,997,48"/>
+<area shape="poly" title=" " alt="" coords="1025,43,1209,90,1208,96,1024,48"/>
+<area shape="rect" title=" " alt="" coords="1309,93,1352,119"/>
+<area shape="poly" title=" " alt="" coords="1057,40,1169,61,1297,91,1296,96,1168,66,1056,46"/>
 <area shape="rect" title=" " alt="" coords="45,321,115,346"/>
 <area shape="poly" title=" " alt="" coords="86,266,84,307,79,307,81,265"/>
 <area shape="rect" title=" " alt="" coords="191,321,254,346"/>
